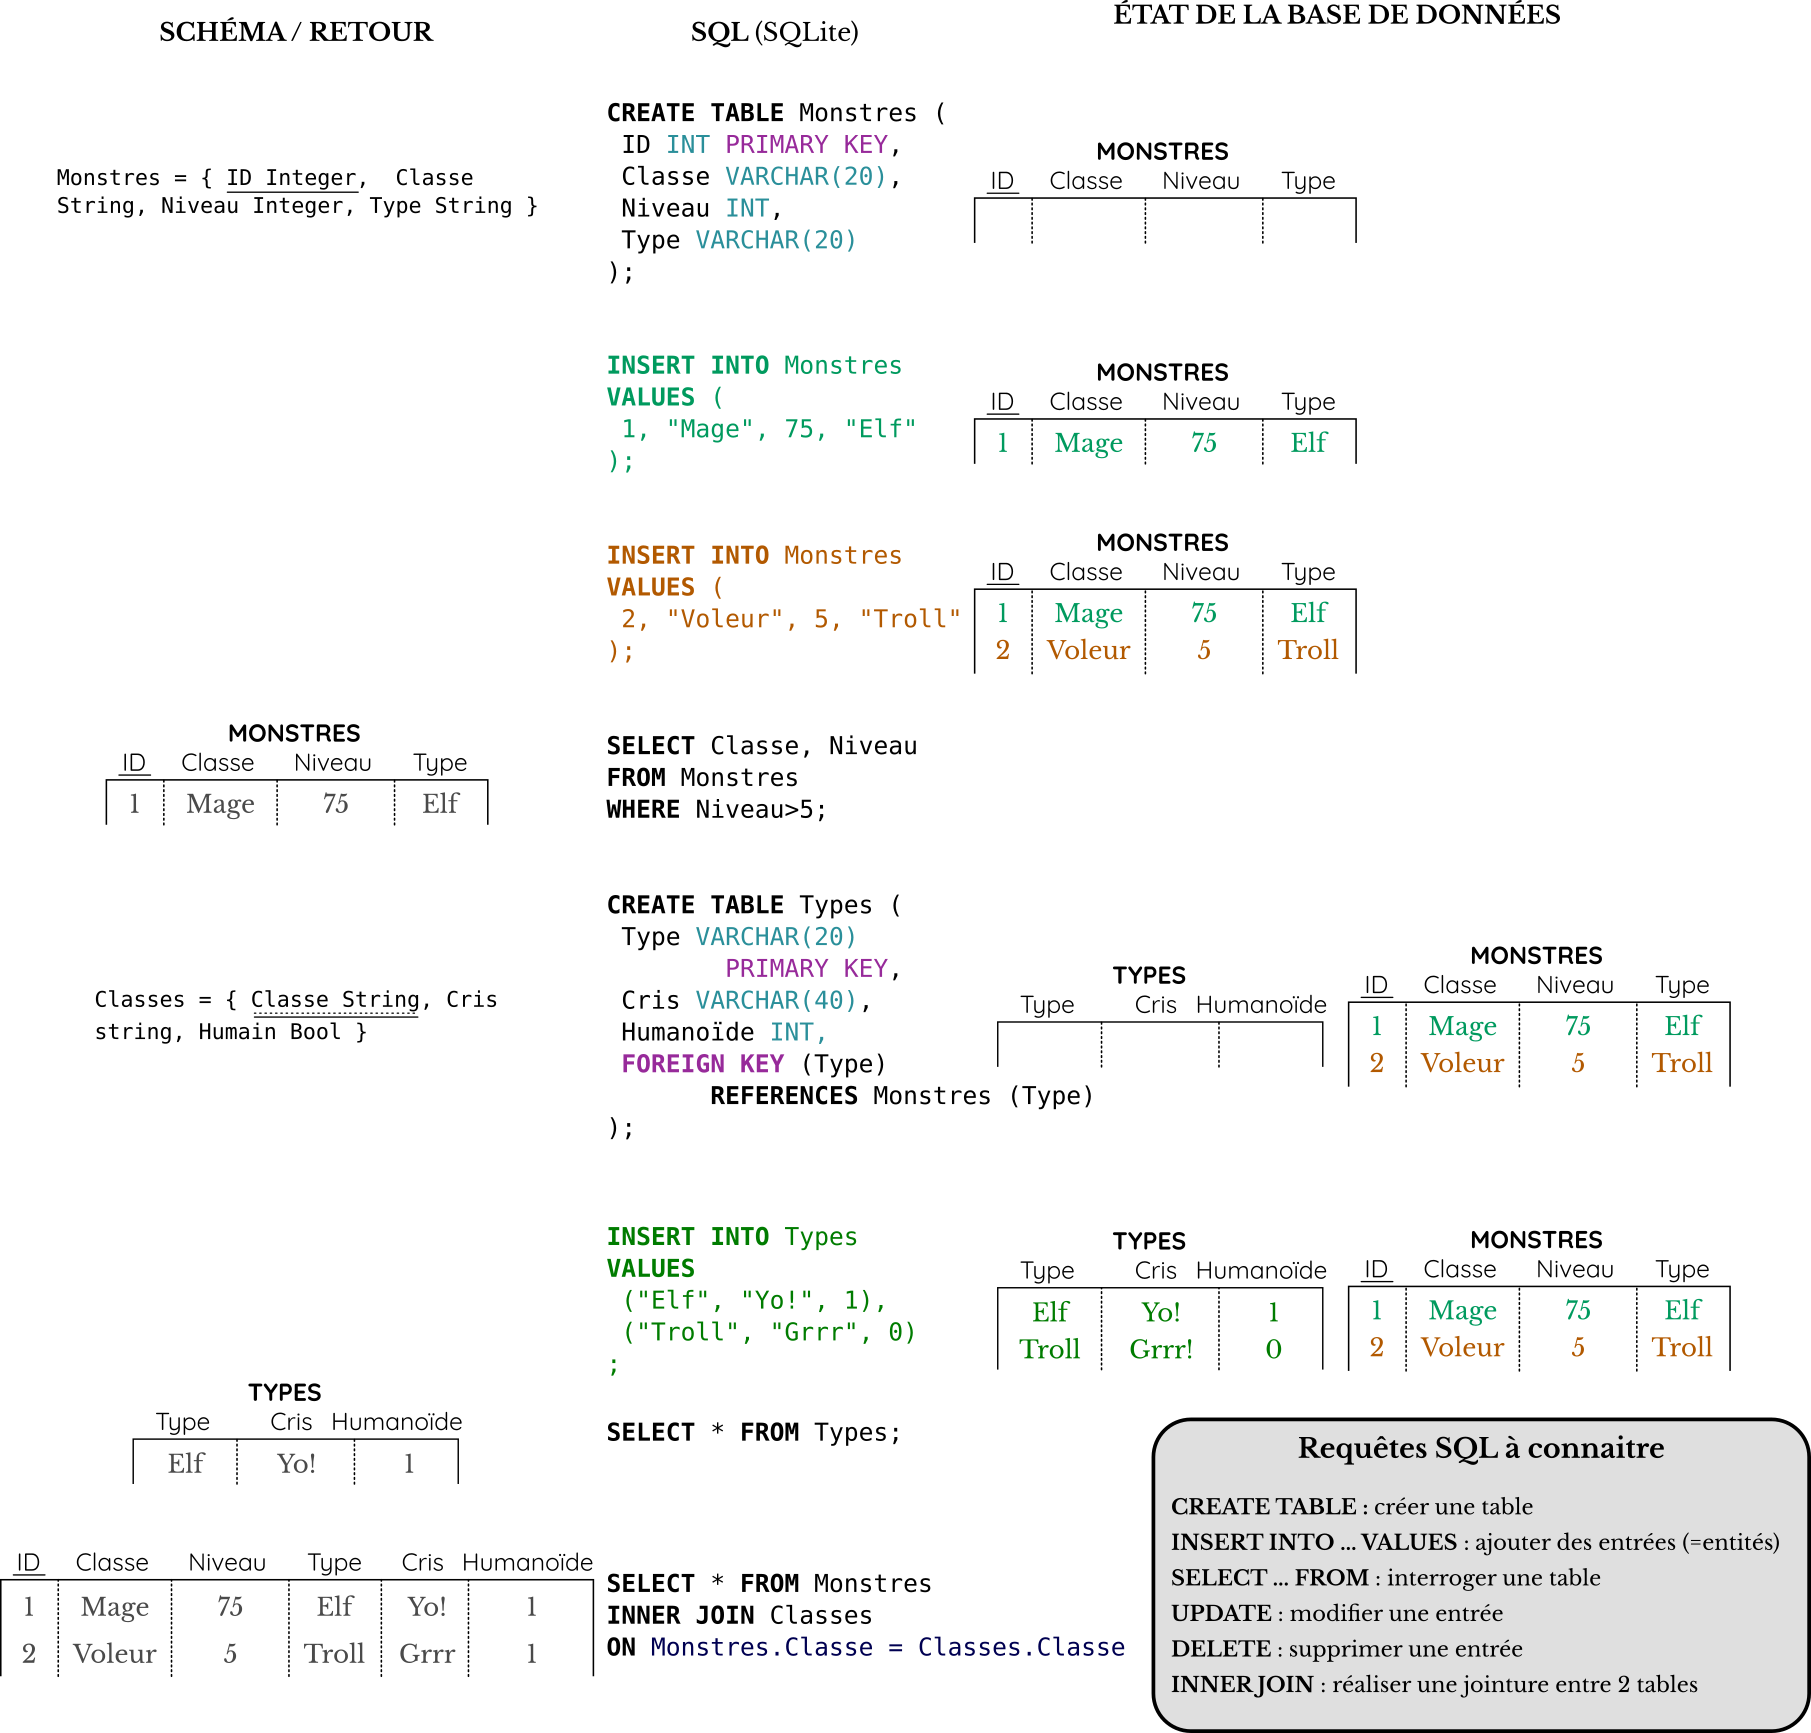
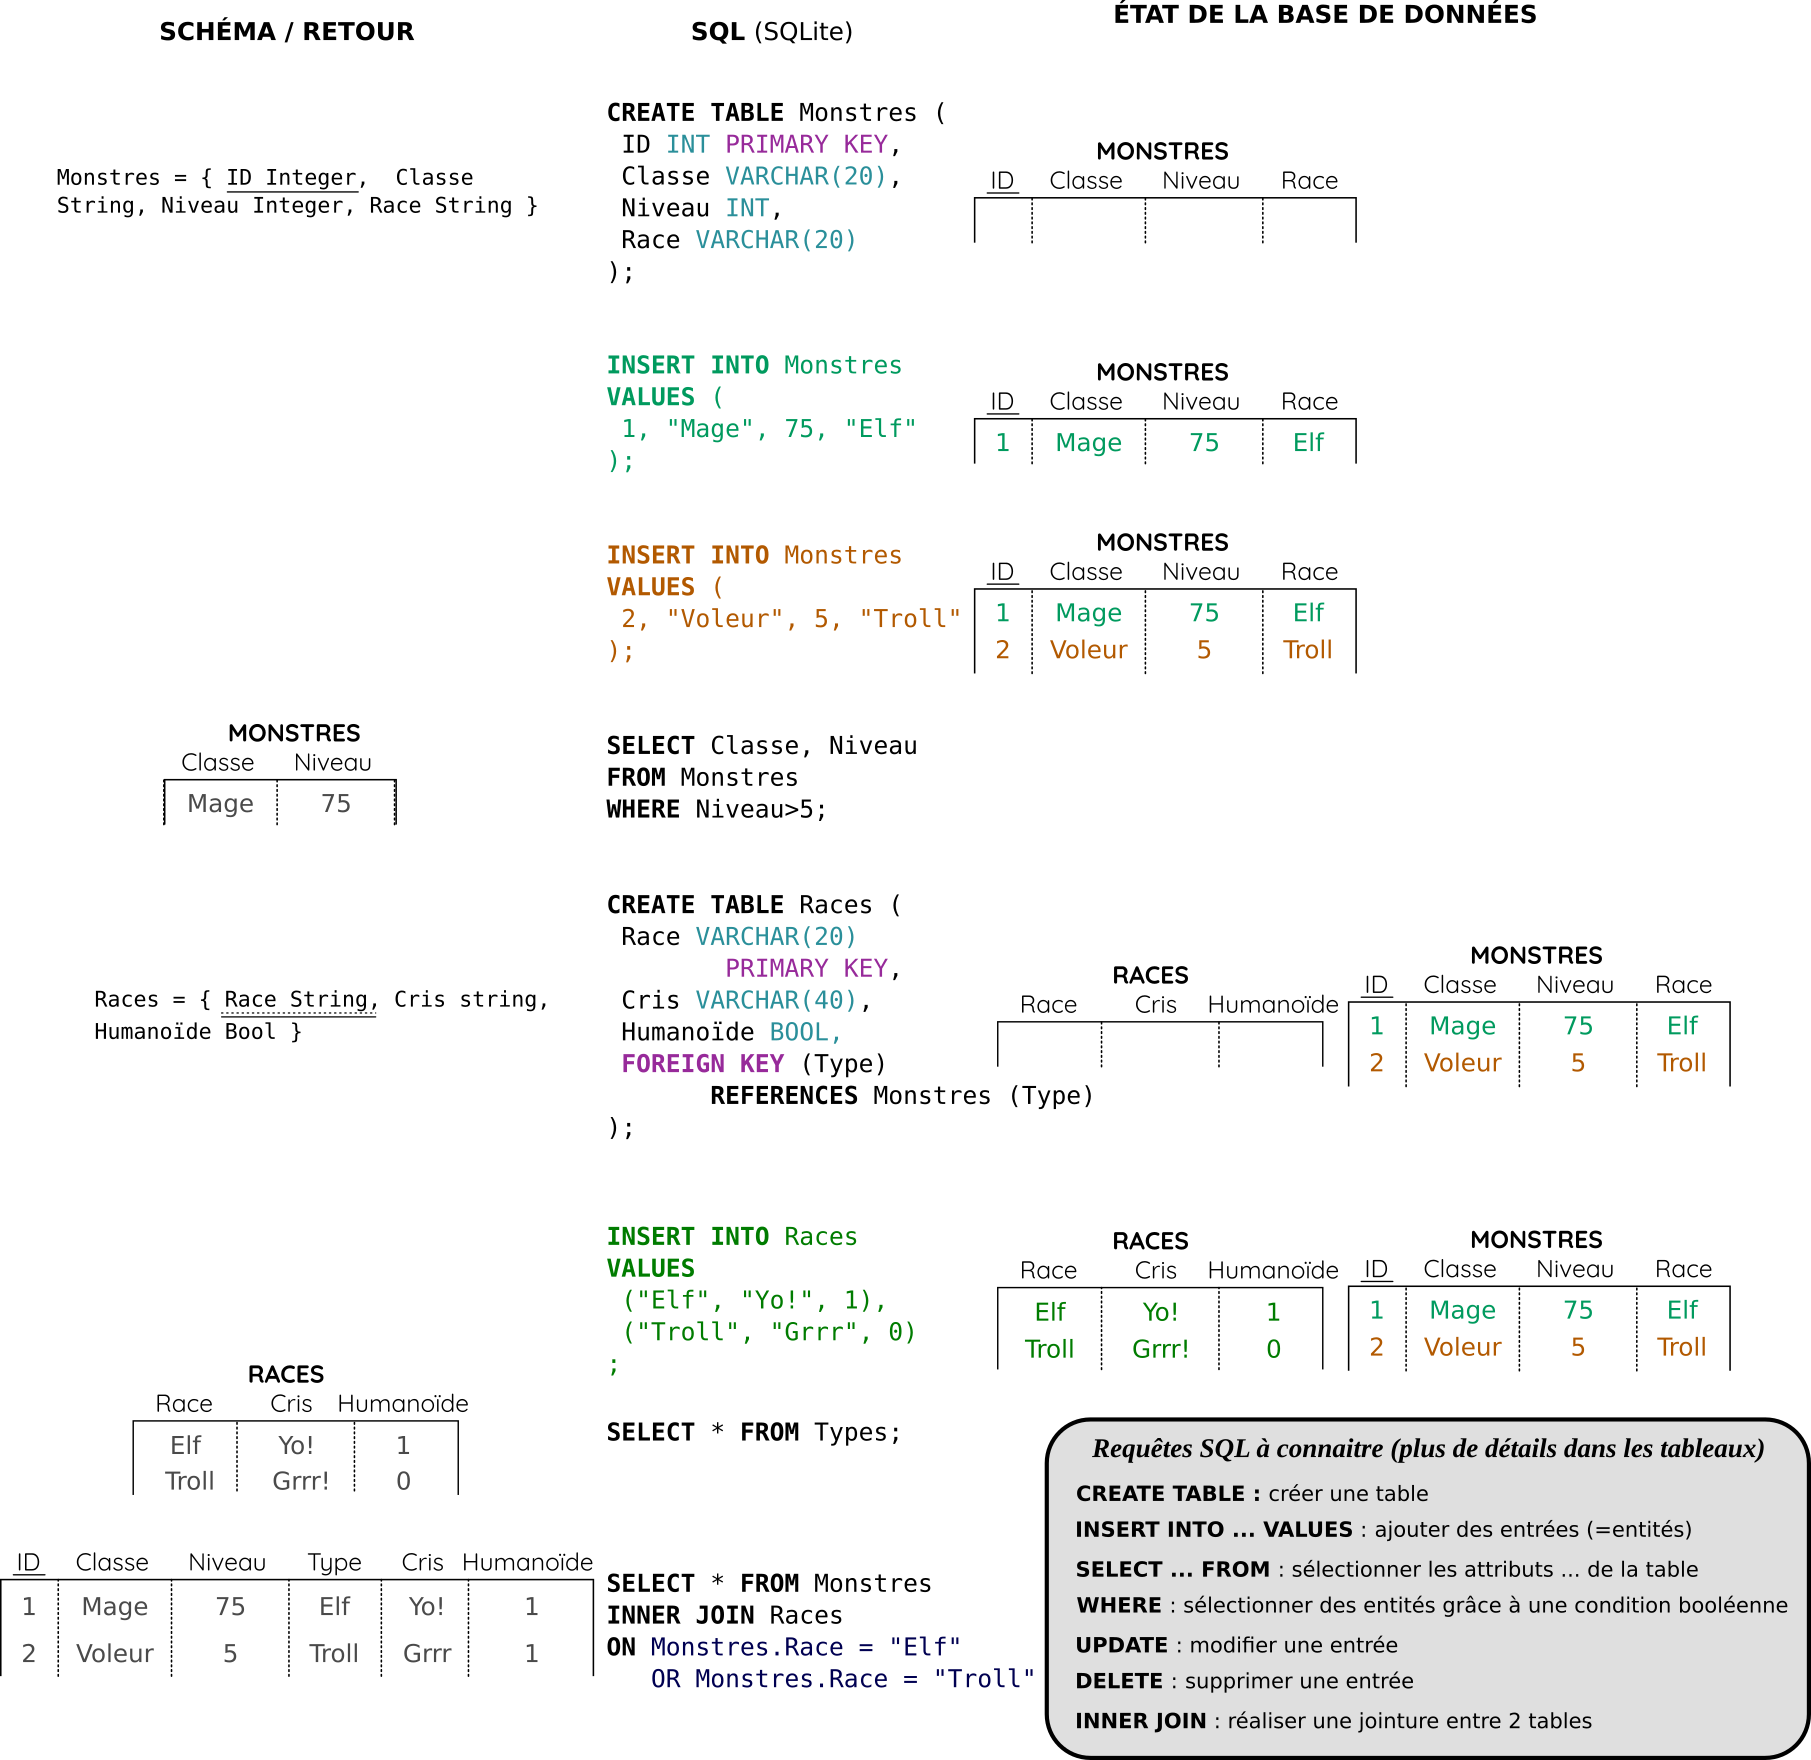
ajout ex bd et archi-os-reseaux

diff --git a/docs/terminal/bases_de_donnees.md b/docs/terminal/bases_de_donnees.md
@@ -153,9 +153,9 @@ CREATE TABLE Races (
  Race VARCHAR(20)
         PRIMARY KEY,
  Cris VARCHAR(40),
- Humain INT,
- FOREIGN KEY (Type)
-       REFERENCES Monstres (Type)
+ Humanoïde BOOL,
+ FOREIGN KEY (Race)
+       REFERENCES Monstres (Race)
 );
 
 INSERT INTO Races
@@ -177,6 +177,36 @@ ON Monstres.Race = Races.Race
 
 </details>
 
+---
+
+<p class="center-p"> <strong> Table des requêtes SQL </strong> de création/modification des données</p>
+
+<div style="font-size:0.8em">
+
+| Fonction                 | Action                             | Options                              | Exemple                                                                                                                       | Explication verbeuse                                                                                                                                                                                                                                      |
+| ------------------------ | ---------------------------------- | ------------------------------------ | ----------------------------------------------------------------------------------------------------------------------------- | --------------------------------------------------------------------------------------------------------------------------------------------------------------------------------------------------------------------------------------------------------- |
+| CREATE TABLE Table       | Créer une table                    | PRIMARY KEY, désigne la clé primaire | **CREATE TABLE** Monstres (  Identifiant **PRIMARY KEY** VARCHAR(20),  Classe  VARCHAR(20),  Niveaux INT,   Race VARCHAR(20)) | Je crée une relation (table) qui s'appelle 'Monstres' avec (1) un attribut 'identifiant' qui est la clé primaire, un attribut Classe et qui peu contenir 20 caractères. Je crée (2) un autre attribut 'Niveaux' qui contiendra des nombres entiers (INT). |
+| INSERT INTO Table VALUES | Insérer une entité                 |                                      | **INSERT INTO** Monstres VALUES (   1, "Mage", 75, "Elf" );                                                                   | J'insère une nouvelle entité dans la relation 'Monstres' qui a pour id la valeur « 1 », pour Classe la valeur « Mage », un niveau égale à « 75 » et une appartient à la race des « Elf ».                                                                 |
+| DROP TABLE Table         | Effacer la table                   | IF EXISTS                            | **DROP TABLE** **IF EXISTS** Monstres;                                                                                        | Je supprime la table 'Monstres' si elle existe.                                                                                                                                                                                                           |
+| UPDATE TABLE Table SET   | Modifier la table                  |                                      | **UPDATE** Monstres **SET** Classe = 'Ogre' WHERE Classe = 'Mage'                                                             | Modifier la valeur de classe des entités de la table 'Monstres' dont la classe est égale à « Mage » en mettant la valeur « Ogre » à la place.                                                                                                             |
+| DELETE FROM Table WHERE  | Supprimer une ou plusieurs entités |                                      | **DELETE FROM** Monstres **WHERE** race = 'Elf'                                                                               | Supprimer toutes les entités dont la race est 'Elf'                                                                                                                                                                                                       |
+
+</div>
+
+---
+
+<p class="center-p"> <strong> Table des requêtes SQL </strong> de sélection (affichage) des données</p>
+
+<div style="font-size:0.8em">
+
+| Fonction | Action                                                    | Options                                                                                                                                                                                    | Exemple                                                  | Explication verbeuse                                                                                                                 |
+| -------- | --------------------------------------------------------- | ------------------------------------------------------------------------------------------------------------------------------------------------------------------------------------------ | -------------------------------------------------------- | ------------------------------------------------------------------------------------------------------------------------------------ |
+| SELECT   | Sélectionner un attribut                                  | * permet de sélectionner tous les attributs de la table                                                                                                                                    | **SELECT** *  **FROM** Monstres ;                        | Je sélectionne tous les attributs de la table monstre pour toutes les entités                                                        |
+| WHERE    | Sélectionner un élément                                   | =, >, >=,  <,  ≤, <br> LIKE (permet la sélection de motif textuel plus complexe), <br> AND, OR, NOT (permet d'ajouter des conditions) <br> BETWEEN : sélectionner entre 2 nombre spécifier | SELECT *      FROM Monstres     **WHERE** Race = 'Mage'; | J'utilise une condition booléenne pour sélectionner tous les attributs des Monstres qui sont de race 'Mage'.                         |
+| ORDER BY | Ordonner la table de manière croissante ou décroissante   | DESC : permet de classer par ordre descendant                                                                                                                                              | SELECT *      FROM Monstres     **ORDER BY** Race;       | Je sélectionne tous les attributs de la table monstre pour toutes les entités en classant les monstres par race (ordre alphabétique) |
+| LIMITE   | Limiter l'affichage de l'attribut par un nombre spécifier |                                                                                                                                                                                            | SELECT Race     FROM Monstres     **LIMIT** 3;           | J'affiche l'attribut race des trois premières entités.                                                                               |
+</div>
+
 ## Systèmes de Gestion de Bases de Données (SGBD)
 
 Un **SGBD** (**Systèmes de Gestion de Bases de Données**) est un logiciel qui permet … la gestion de bases de données en facilitant :
@@ -195,7 +225,7 @@ En informatique, les propriétés ACID (atomicité, cohérence, isolation et dur
 - **Atomicité** : il faut qu'une transaction informatique se fasse complètement ou ne se fasse pas du tout. Cette propriété permet d'éviter des erreurs dûs à des transactions incomplètes. Par exemple, si une requête SQL d'ajout d'une entité n'ajoute qu'une partie des attributs (par ex. à cause d'une coupure de courant), alors il faut annuler la transaction.
 
 - **Cohérence** : chaque transaction doit amener le système d'un état valide à un autre état valide. Par exemple, les contraintes d'intégrité d'une base de données doivent être respectées avant et après une requête.
-- **Isolation** : chaque transaction est indépendante, elles s’exécutent comme si elles étaient seules sur le système. Ainsi une transaction T1 ne peux pas accéder à un état intermédiaire d'une transaction T2 qui est exécuté au même moment. Cela revient à dire que l'exécution de T1 et T2 simultanément doit produire le même résultat que leur exécution successive.
+- **Isolation** : chaque transaction est indépendante, elles s'exécutent comme si elles étaient seules sur le système. Ainsi une transaction T1 ne peux pas accéder à un état intermédiaire d'une transaction T2 qui est exécuté au même moment. Cela revient à dire que l'exécution de T1 et T2 simultanément doit produire le même résultat que leur exécution successive.
 
 - **Durabilité** : la propriété de durabilité assure qu'une fois confirmée, une transaction demeure enregistré même en cas de panne informatique ou d'un autre problème. Par exemple, dans le cas d'une base de données relationnelle, une fois une requête SQL effectuée, la base modifiée doit être sauvegardée de façon permanente.
 
@@ -234,27 +264,31 @@ connexion.close()
 
 ### Modèle relationnel
 
+1. Compléter les termes dans l'image suivante :
+
+![](../_img/ex_table_BD.png  ":size=150")
+
 1. Ci dessous est écrit le schéma d'une base de données relationnelle d'une médiathèque. À l'aide de ce schéma, trouver le nombre de relations et leur noms. Citer trois attributs qui ont des domaines différents et expliquer pourquoi ils ont des domaines différents. Identifier la ou les clés primaires et étrangères.
 
    - _Livre_(_titre_ String, _auteur_ String, _éditeur_ String, _année_ Int, <u><em>ISBN</em></u> String, <u style="text-decoration: none; border-bottom: 1px dotted; cursor: help;"><em>emprunté\_par</em></u> Int, _emprunté\_le_ Date)
    - _Usager_(<u><em>id</em></u> Int, _nom_ String, _prénom_ String)
 
-1. À l'aide l'exemple précédent, modéliser sous la forme d'un schéma la base de données d'un bulletin scolaire qui doit mentionner (i) les élèves qui possèdent un numéro d'étudiant unique, (ii) un ensemble de matières fixées, et (iii) une note sur 20 par matière et par élève.
+2. À l'aide l'exemple précédent, modéliser sous la forme d'un schéma la base de données d'un bulletin scolaire qui doit mentionner (i) les élèves qui possèdent un numéro d'étudiant unique, (ii) un ensemble de matières fixées, et (iii) une note sur 20 par matière et par élève.
 
-1. Dire si les affirmations suivantes sont vraies dans le cadre de notre base de données relationnelle de la médiathèque :
+3. Dire si les affirmations suivantes sont vraies dans le cadre de notre base de données relationnelle de la médiathèque :
    1. Il ne peut pas y avoir plusieurs livres qui ont le même titre
    2. Il ne peux pas y avoir plusieurs livres qui ont le même ISBN
    3. Il ne peux pas y avoir plusieurs usager qui ont le même couple de valeur Nom/Prénom
    4. L'attribut *emprunté_par* ne peux pas prendre de valeurs qui ne sont pas dans l'*id* de la table usager.
 
-1. Faire le schéma d'un annuaire téléphonique simple (nom, prénom, téléphone). Attention, le téléphone doit pouvoir commencer par un +. À partir de ce schéma, dire si les proposition ci dessous sont des relations valides pour votre schéma.
+4. Faire le schéma d'un annuaire téléphonique simple (nom, prénom, téléphone). Attention, le téléphone doit pouvoir commencer par un +. À partir de ce schéma, dire si les proposition ci dessous sont des relations valides pour votre schéma.
   
    1. {}
-   1. {('Ronald', 'MacDo', '0123728938')}
-   1. {('Oscar', 'White', '0123728938'), ('Deau', 'Roro', '')}
-   1. {('Oscar', 'White', '0123728938'), ('Deau', 'Roro', '0123728938')}
-   1. {('Doe', 'John', +331829900)}
-   1. {('Doe', 'White', '+3318299EE')}
+   2. {('Ronald', 'MacDo', '0123728938')}
+   3. {('Oscar', 'White', '0123728938'), ('Deau', 'Roro', '')}
+   4. {('Oscar', 'White', '0123728938'), ('Deau', 'Roro', '0123728938')}
+   5. {('Doe', 'John', +331829900)}
+   6. {('Doe', 'White', '+3318299EE')}
 
 ### Base de données relationnelle et langage SQL
 

diff --git a/docs/Sources.md b/docs/Sources.md
@@ -16,35 +16,37 @@
 
 - Les cours en ligne du site [librecours.net](https://librecours.net) écrit par [Stéphane Crozat](http://stph.crzt.fr) dont la majorité est sous licence [CC-by-sa-3.0](http://creativecommons.org/licenses/by-sa/3.0/fr/)
 
+- Le travail des lycéens de Scholae pour améliorer le site.
+
 ## Sources secondaire
 
-https://www.apprendre-en-ligne.net/index-info.html
+<https://www.apprendre-en-ligne.net/index-info.html>
 
-http://jargonf.org/wiki/Accueil
+<http://jargonf.org/wiki/Accueil>
 
 ### Se former en ligne
 
-https://openclassrooms.com/fr/
+<https://openclassrooms.com/fr/>
 
-https://freecodecamp.org/
+<https://freecodecamp.org/>
 
-https://librecours.net/
+<https://librecours.net/>
 
-### Internet
+###  Internet
 
 - [L'internet rapide et permanent](http://irp.nain-t.net/doku.php/start) (CC BY-NC-SA 2.0 FR)
 - Routage sur [idum](http://idum.fr/spip.php?article213)
 
 ### À creuser
 
-https://science.sciencemag.org/content/sci/332/6025/60/F2.large.jpg
+<https://science.sciencemag.org/content/sci/332/6025/60/F2.large.jpg>
 
-https://royalsocietypublishing.org/doi/10.1098/rsos.181393
+<https://royalsocietypublishing.org/doi/10.1098/rsos.181393>
 
-https://www.martinhilbert.net/worldinfocapacity-html/
+<https://www.martinhilbert.net/worldinfocapacity-html/>
 
-http://documents1.worldbank.org/curated/en/896971468194972881/310436360_201602630200201/additional/102725-PUB-Replacement-PUBLIC.pdf
+<http://documents1.worldbank.org/curated/en/896971468194972881/310436360_201602630200201/additional/102725-PUB-Replacement-PUBLIC.pdf>
 
-https://townline.org/welcome-to-the-world-of-big-data/
+<https://townline.org/welcome-to-the-world-of-big-data/>
 
-https://www.internetlivestats.com/
+<https://www.internetlivestats.com/>

diff --git a/docs/notes.md b/docs/notes.md
@@ -27,10 +27,16 @@ def ma_super_fonction(x, y)
 ```
 
 | Left Align | Center Align | Right Align | Colonne |
-| ---------- |:------------:| -----------:| ------------------------------ |
-| A1         | A2           | A3          | A4                             |
-| B1         | B2           | B3          | B4                             |
-| C1         | C2           | C3          | C4                             |
+| ---------- | :----------: | ----------: | ------- |
+| A1         |      A2      |          A3 | A4      |
+| B1         |      B2      |          B3 | B4      |
+| C1         |      C2      |          C3 | C4      |
+
+### Des images
+
+![](../_img/SQLite_figure.png ":size=100%")
+
+<p class="center-p"> <strong> Exemple de code SQL </strong> avec à gauche les schémas ou les retours de fonction, et à droite l'état de la base de données. </p>
 
 ### Des maths
 
